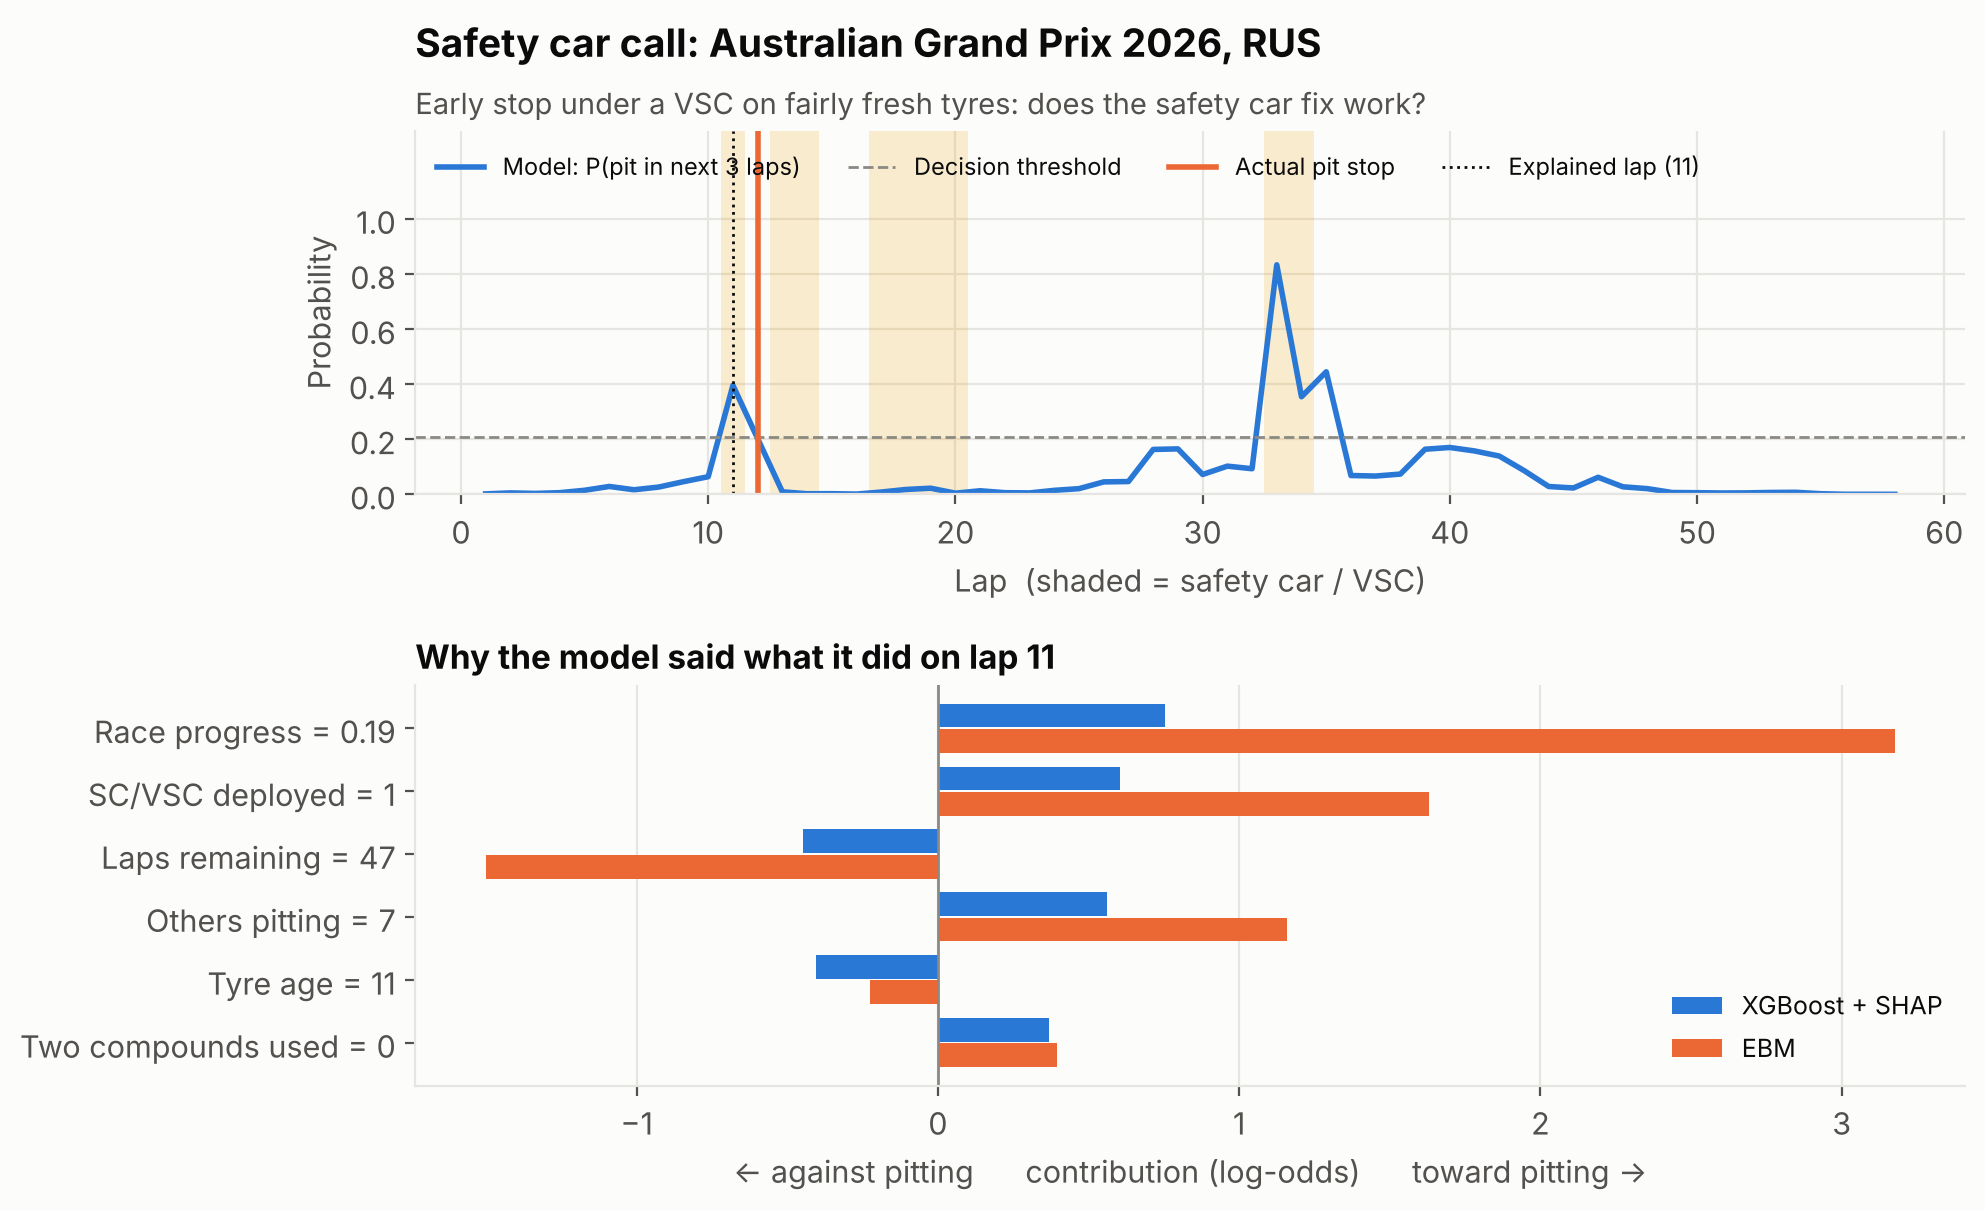
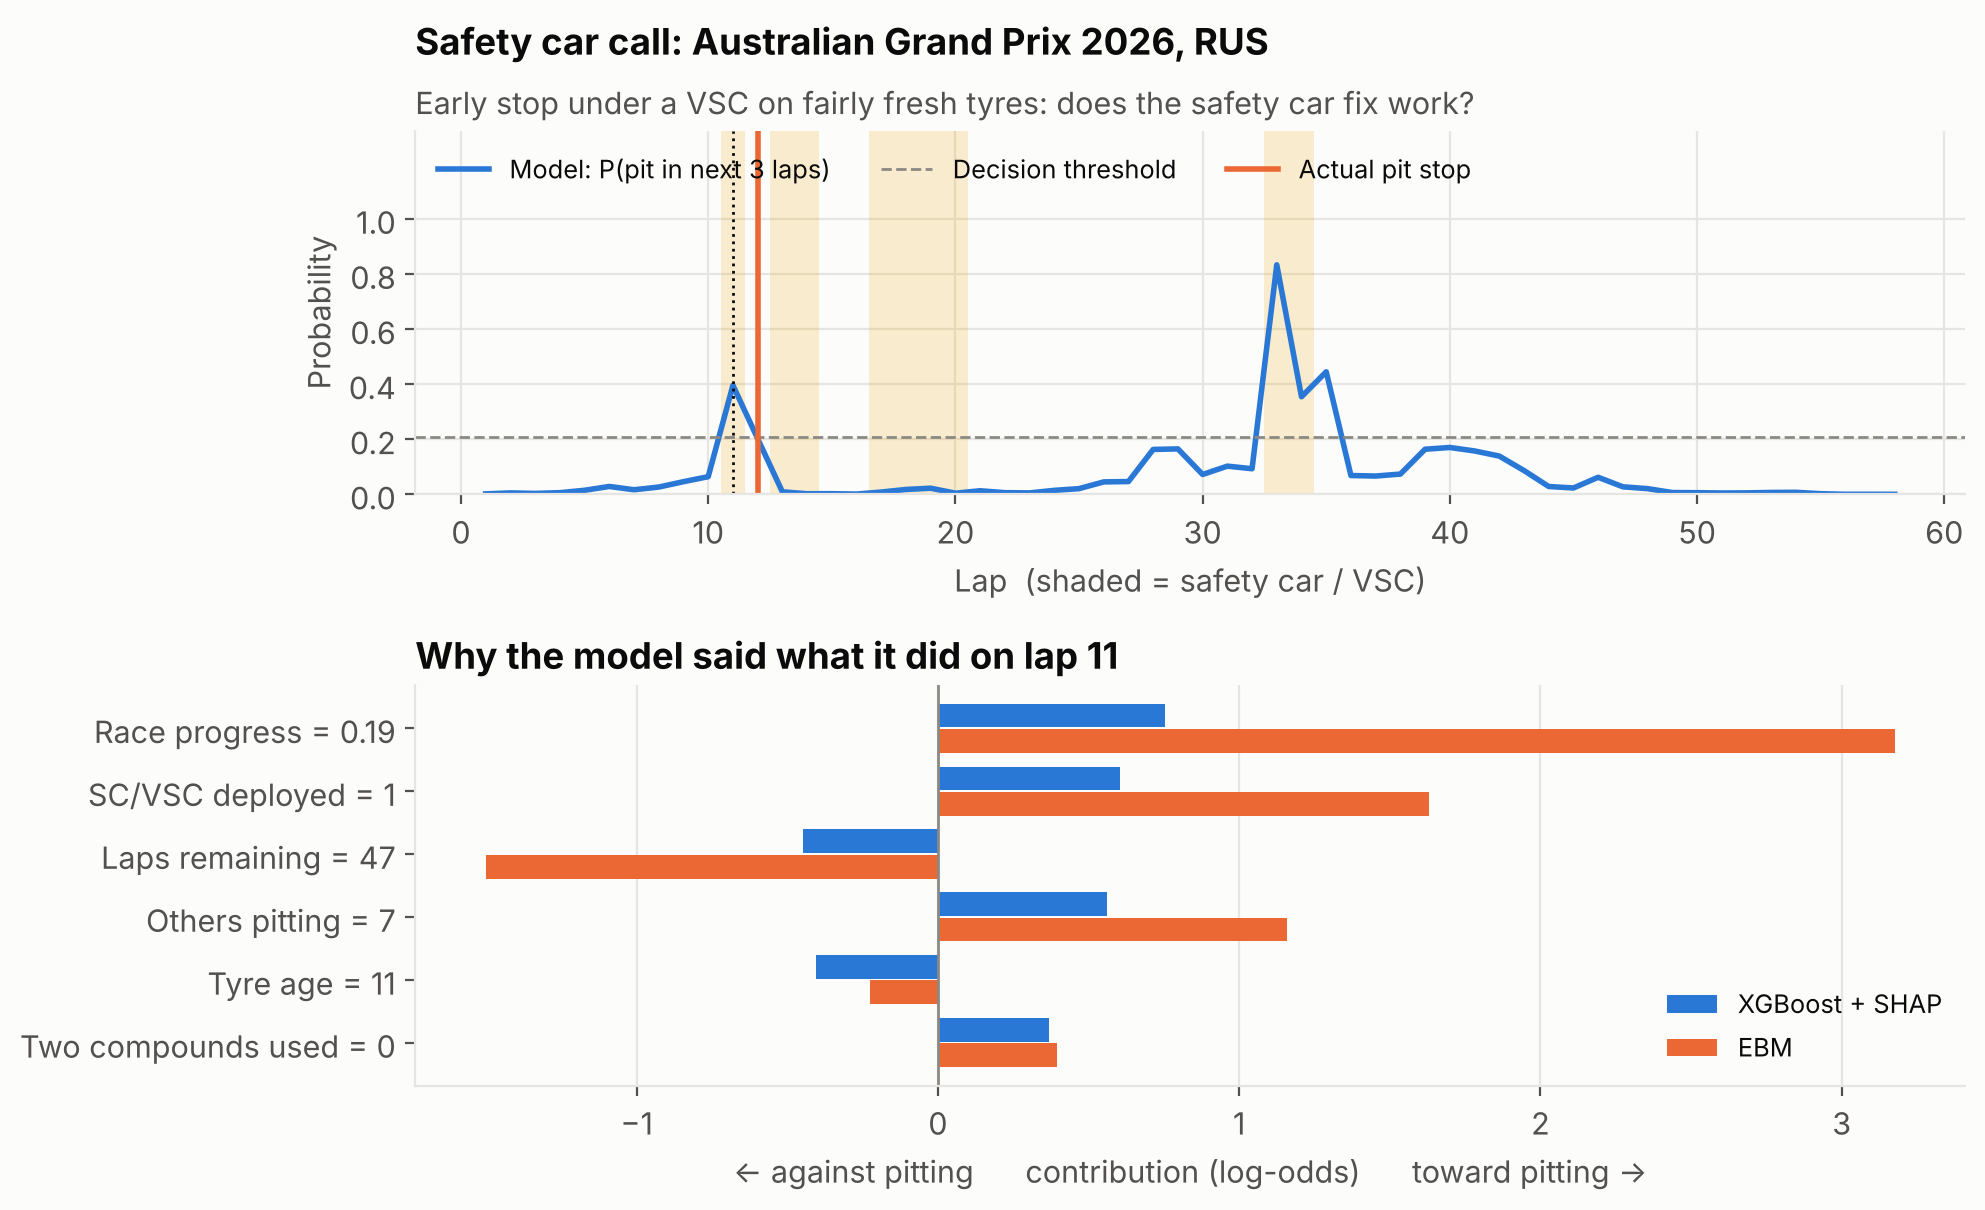
Add poster figure scripts and README fix

diff --git a/src/figures.py b/src/figures.py
@@ -26,10 +26,11 @@ def _save(fig, path):
     plt.close(fig)
 
 
-def importance_comparison(imp_a, imp_b, label_a, label_b, title, path, color_b=ORANGE, top_n=12):
+def importance_comparison(imp_a, imp_b, label_a, label_b, title, path, color_b=ORANGE, top_n=12,
+                          width=7.5, row_h=0.3):
     order = pd.Series(imp_a).sort_values().index[-top_n:]
     y = np.arange(len(order))
-    fig, ax = plt.subplots(figsize=(7.5, 0.3 * len(order) + 1.3))
+    fig, ax = plt.subplots(figsize=(width, row_h * len(order) + 1.3))
     for i, f in enumerate(order):
         ax.plot([imp_a[f], imp_b[f]], [i, i], color=GRID, lw=2, zorder=1)
     ax.scatter([imp_a[f] for f in order], y, s=60, color=BLUE, label=label_a, zorder=2, edgecolor=SURFACE, lw=1.5)
@@ -54,12 +55,12 @@ def shape_comparison(curves, path, title="How each feature pushes the pit predic
         ax.axhline(0, color=GRAY, lw=1)
         ax.plot(s["x"], s["c"], color=BLUE, marker="o", ms=4, label="XGBoost + SHAP")
         ax.plot(e["x"], e["c"], color=ORANGE, marker="o", ms=4, label="EBM (glass box)")
-        ax.set_title(SHORT_NAMES[f], fontsize=12)
+        ax.set_title(SHORT_NAMES[f], fontsize="large")
         ax.set_ylabel("Contribution (log-odds)")
     for ax in list(axes.flat)[n:]:
         ax.set_visible(False)
     axes.flat[0].legend(loc="upper left")
-    fig.suptitle(title, x=0.01, ha="left", fontweight="bold", fontsize=13)
+    fig.suptitle(title, x=0.01, ha="left", fontweight="bold", fontsize="large")
     _save(fig, path)
 
 
@@ -95,7 +96,7 @@ def performance_bars(metrics, seasons, path, metric="pr_auc", title="Pit predict
     for i, (key, label, color) in enumerate(names):
         vals = [metrics[key][s][metric] for s in seasons]
         bars = ax.bar(x + (i - 1) * w, vals, width=w - 0.02, color=color, label=label)
-        ax.bar_label(bars, fmt="%.2f", padding=2, color=INK2, fontsize=9)
+        ax.bar_label(bars, fmt="%.2f", padding=2, color=INK2, fontsize="small")
     rates = [metrics["xgboost"][s]["pit_rate"] for s in seasons]
     for xi, r in zip(x, rates):
         ax.hlines(r, xi - 1.5 * w, xi + 1.5 * w, color=INK2, lw=1, ls=":")
@@ -126,7 +127,7 @@ def race_timeline(df, probs, stops, threshold, path, title, highlight_lap=None):
     ax.set_ylabel("Probability")
     ax.set_ylim(0, 1)
     ax.set_title(title)
-    ax.legend(loc="upper left", fontsize=9)
+    ax.legend(loc="upper left", fontsize="small")
     if path is None:
         fig.tight_layout()
         return fig
@@ -145,22 +146,22 @@ def lap_explanation(names, shap_vals, ebm_vals, title="Why? Contribution of each
     ax.grid(axis="y", visible=False)
     ax.set_xlabel("← against pitting      contribution (log-odds)      toward pitting →")
     ax.set_title(title)
-    ax.legend(loc="lower right", fontsize=9)
+    ax.legend(loc="lower right", fontsize="small")
     fig.tight_layout()
     return fig
 
 
-def iterations_plot(result, path, title="Explanations led to a better model"):
+def iterations_plot(result, path, title="Explanations led to a better model", labels=None, figsize=(8.5, 3.6)):
     names = list(result)
     means = [result[n]["pr_auc_mean"] for n in names]
     sds = [result[n]["pr_auc_sd"] for n in names]
     colors = [BLUE if n.startswith("v3") else (GRAY if "control" in n else "#9dbfea") for n in names]
-    fig, ax = plt.subplots(figsize=(8.5, 3.6))
+    fig, ax = plt.subplots(figsize=figsize)
     y = np.arange(len(names))
     ax.barh(y, means, xerr=sds, height=0.6, color=colors, error_kw=dict(ecolor=INK2, capsize=3, lw=1))
     for yi, m, sd in zip(y, means, sds):
-        ax.text(m + sd + 0.006, yi, f"{m:.3f}", va="center", color=INK2, fontsize=10)
-    ax.set_yticks(y, names)
+        ax.text(m + sd + 0.006, yi, f"{m:.3f}", va="center", color=INK2, fontsize="small")
+    ax.set_yticks(y, [labels.get(n, n) for n in names] if labels else names)
     ax.invert_yaxis()
     ax.grid(axis="y", visible=False)
     ax.set_xlim(0, max(means) * 1.18)
@@ -169,10 +170,11 @@ def iterations_plot(result, path, title="Explanations led to a better model"):
     _save(fig, path)
 
 
-def case_study_panel(d, probs, stops, threshold, focus_lap, names, shap_vals, ebm_vals, title, subtitle, path):
+def case_study_panel(d, probs, stops, threshold, focus_lap, names, shap_vals, ebm_vals, title, subtitle, path,
+                     figsize=(10, 6.2), hspace=0.5, legend=True):
     """Two-row figure: race timeline (top) and the explanation at the focus lap (bottom)."""
-    fig = plt.figure(figsize=(10, 6.2))
-    gs = fig.add_gridspec(2, 1, height_ratios=[1, 1.1], hspace=0.5)
+    fig = plt.figure(figsize=figsize)
+    gs = fig.add_gridspec(2, 1, height_ratios=[1, 1.1], hspace=hspace)
     ax = fig.add_subplot(gs[0])
     laps = d["LapNumber"].values
     for lap, c in zip(laps, (d["safety_car"] | d["vsc"] | d["sc_upcoming"])):
@@ -182,14 +184,18 @@ def case_study_panel(d, probs, stops, threshold, focus_lap, names, shap_vals, eb
     ax.axhline(threshold, color=GRAY, lw=1, ls="--", label="Decision threshold")
     for i, s in enumerate(stops):
         ax.axvline(s, color=ORANGE, lw=2, label="Actual pit stop" if i == 0 else None)
-    ax.axvline(focus_lap, color=INK, lw=1, ls=":", label=f"Explained lap ({focus_lap})")
+    ax.axvline(focus_lap, color=INK, lw=1, ls=":")  # the lap explained below
     ax.set_ylim(0, 1.32)  # headroom so the legend sits above the curve
     ax.set_yticks([0, 0.2, 0.4, 0.6, 0.8, 1.0])
     ax.set_xlabel("Lap  (shaded = safety car / VSC)")
     ax.set_ylabel("Probability")
-    fig.suptitle(title, x=0.125, y=0.97, ha="left", fontweight="bold", fontsize=14)
-    ax.set_title(subtitle, fontsize=10.5, fontweight="normal", color=INK2)
-    ax.legend(loc="upper left", fontsize=8.5, ncol=4)
+    if subtitle:
+        fig.suptitle(title, x=0.125, y=0.97, ha="left", fontweight="bold", fontsize="large")
+        ax.set_title(subtitle, fontsize="medium", fontweight="normal", color=INK2)
+    else:
+        ax.set_title(title)
+    if legend:
+        ax.legend(loc="upper left", fontsize="small", ncol=3)
 
     bx = fig.add_subplot(gs[1])
     y = np.arange(len(names))
@@ -200,7 +206,45 @@ def case_study_panel(d, probs, stops, threshold, focus_lap, names, shap_vals, eb
     bx.invert_yaxis()
     bx.grid(axis="y", visible=False)
     bx.set_xlabel("← against pitting      contribution (log-odds)      toward pitting →")
-    bx.set_title(f"Why the model said what it did on lap {focus_lap}", fontsize=12)
-    bx.legend(loc="lower right", fontsize=9)
+    if legend:
+        bx.set_title(f"Why the model said what it did on lap {focus_lap}", fontsize="large")
+        bx.legend(loc="lower right", fontsize="small")
+    else:  # narrow: short title, legend in the title row
+        bx.set_title(f"Why, on lap {focus_lap}", fontsize="large", loc="left")
+        bx.legend(loc="lower right", bbox_to_anchor=(1.0, 1.0), ncol=2, fontsize="small",
+                  handlelength=1.2, columnspacing=1.0, borderaxespad=0.2)
+    fig.savefig(path, dpi=200, bbox_inches="tight")
+    plt.close(fig)
+
+
+def case_study_compact(d, probs, stops, threshold, focus_lap, names, shap_vals, title, path, figsize=(12, 4)):
+    """Side-by-side version for tight layouts: timeline left, SHAP reasons right."""
+    fig = plt.figure(figsize=figsize)
+    gs = fig.add_gridspec(1, 2, width_ratios=[1.45, 1], wspace=0.75)
+    ax = fig.add_subplot(gs[0])
+    laps = d["LapNumber"].values
+    for lap, c in zip(laps, (d["safety_car"] | d["vsc"] | d["sc_upcoming"])):
+        if c:
+            ax.axvspan(lap - 0.5, lap + 0.5, color="#eda100", alpha=0.18, lw=0)
+    ax.plot(laps, probs, color=BLUE, label="P(pit in next 3 laps)")
+    ax.axhline(threshold, color=GRAY, lw=1, ls="--")
+    for i, s in enumerate(stops):
+        ax.axvline(s, color=ORANGE, lw=2, label="Actual stop" if i == 0 else None)
+    ax.axvline(focus_lap, color=INK, lw=1, ls=":")
+    ax.set_ylim(0, 1.3)
+    ax.set_yticks([0, 0.5, 1.0])
+    ax.set_xlabel("Lap")
+    ax.set_title(title)
+    ax.legend(loc="upper left", ncol=2, fontsize="small")
+
+    bx = fig.add_subplot(gs[1])
+    y = np.arange(len(names))
+    bx.axvline(0, color=GRAY, lw=1)
+    bx.barh(y, shap_vals, height=0.6, color=[BLUE if v > 0 else GRAY for v in shap_vals])
+    bx.set_yticks(y, names)
+    bx.invert_yaxis()
+    bx.grid(axis="y", visible=False)
+    bx.set_xlabel("SHAP (→ toward pitting)")
+    bx.set_title(f"Why, on lap {focus_lap}")
     fig.savefig(path, dpi=200, bbox_inches="tight")
     plt.close(fig)

diff --git a/case_studies.py b/case_studies.py
@@ -5,8 +5,11 @@
 Writes figures/case_*.png and results/case_studies.md. Races not in the data are skipped.
 """
 import json
+import os
+import sys
 
 import joblib
+import matplotlib.pyplot as plt
 import numpy as np
 import pandas as pd
 
@@ -23,8 +26,15 @@ CASES = [
     dict(key="singapore", year=2026, event="Singapore Grand Prix", driver="VER", stop=None,
          role="Blind-spot gamble", subtitle="Pace management and track position: what the model can't see"),
     dict(key="stayed_out", year=2025, event="Italian Grand Prix", driver="NOR", focus=33,
-         role="Stayed out (fallback gamble)", subtitle="The model expected a stop; the team extended the stint"),
+         role="The gamble", subtitle="The model expected a stop; the team extended the stint"),
 ]
+# --poster: larger text and fewer bars, written to figures/poster/ (results/ untouched)
+POSTER = "--poster" in sys.argv
+POSTER_RC = {"font.size": 16, "axes.titlesize": 19, "axes.labelsize": 16, "xtick.labelsize": 15,
+             "ytick.labelsize": 15, "legend.fontsize": 15}
+FIG_DIR = "figures/poster" if POSTER else "figures"
+os.makedirs(FIG_DIR, exist_ok=True)
+
 COMP = {1: "Soft", 2: "Medium", 3: "Hard", 4: "Inter", 5: "Wet"}
 
 feat = pd.read_csv("data/features.csv")
@@ -54,11 +64,25 @@ for c in CASES:
     i = int(np.where(d["LapNumber"] == focus)[0][0])
     row = d.iloc[[i]]
     sv, ev = ex.shap_values(xgbm, row)[0], ex.ebm_contribs(ebm, row)[0]
-    order = np.argsort(-np.maximum(np.abs(sv), np.abs(ev)))[:6]
+    order = np.argsort(-np.maximum(np.abs(sv), np.abs(ev)))[:4 if POSTER else 6]
     names = [f"{SHORT_NAMES[FEATURE_COLS[j]]} = {row[FEATURE_COLS[j]].iloc[0]:.3g}" for j in order]
     title = f"{c['role']}: {c['event']} {c['year']}, {c['driver']}"
-    fg.case_study_panel(d, p, s_laps, thr["xgboost"], focus, names, sv[order], ev[order],
-                        title, c["subtitle"], f"figures/case_{c['key']}.png")
+    if POSTER:
+        o3 = np.argsort(-np.abs(sv))[:3]
+        n3 = [f"{SHORT_NAMES[FEATURE_COLS[j]]} = {row[FEATURE_COLS[j]].iloc[0]:.3g}" for j in o3]
+        with plt.rc_context(POSTER_RC):
+            fg.case_study_compact(d, p, s_laps, thr["xgboost"], focus, n3, sv[o3],
+                                  f"{c['event'].replace(' Grand Prix', ' GP')} {c['year']}, {c['driver']}",
+                                  f"{FIG_DIR}/case_{c['key']}_compact.png")
+    if POSTER:  # narrow version: three across in a band under the results
+        with plt.rc_context(POSTER_RC):
+            fg.case_study_panel(d, p, s_laps, thr["xgboost"], focus, names[:3], sv[order][:3], ev[order][:3],
+                                f"{c['event'].replace(' Grand Prix', ' GP')} {c['year']} · {c['driver']}", "",
+                                f"{FIG_DIR}/case_{c['key']}_narrow.png", figsize=(7.6, 5.6), hspace=0.8, legend=False)
+    with plt.rc_context(POSTER_RC if POSTER else {}):
+        fg.case_study_panel(d, p, s_laps, thr["xgboost"], focus, names, sv[order], ev[order],
+                            title, "" if POSTER else c["subtitle"], f"{FIG_DIR}/case_{c['key']}.png",
+                            figsize=(12, 5.7) if POSTER else (10, 6.2), hspace=0.75 if POSTER else 0.5)
     top_s = [SHORT_NAMES[FEATURE_COLS[j]] for j in np.argsort(-np.abs(sv))[:3]]
     top_e = [SHORT_NAMES[FEATURE_COLS[j]] for j in np.argsort(-np.abs(ev))[:3]]
     r = row.iloc[0]
@@ -72,4 +96,5 @@ for c in CASES:
             f"- EBM top 3: {', '.join(top_e)}",
             f"- Same top-3 set: {'yes' if set(top_s) == set(top_e) else 'no'}", ""]
     print(f"done: {title}")
-open("results/case_studies.md", "w").write("\n".join(out) + "\n")
+if not POSTER:
+    open("results/case_studies.md", "w").write("\n".join(out) + "\n")

diff --git a/poster_figures.py b/poster_figures.py
@@ -1,0 +1,30 @@
+"""Poster versions of the main figures: bigger text, fewer elements.
+
+    python poster_figures.py       (after run_pipeline.py)
+    python case_studies.py --poster
+
+Writes figures/poster/.
+"""
+import json
+import os
+
+import matplotlib.pyplot as plt
+
+from src import figures as fg
+
+POSTER_RC = {"font.size": 16, "axes.titlesize": 20, "axes.labelsize": 16, "xtick.labelsize": 15,
+             "ytick.labelsize": 16, "legend.fontsize": 15}
+os.makedirs("figures/poster", exist_ok=True)
+R = json.load(open("results/metrics.json"))
+
+with plt.rc_context(POSTER_RC):
+    fg.importance_comparison(R["agreement"]["importance_shap"], R["agreement"]["importance_ebm"],
+                             "XGBoost + SHAP", "EBM (glass box)", "What matters most, per method",
+                             "figures/poster/importance.png", top_n=6, width=9.5, row_h=0.38)
+    fg.iterations_plot(R["iterations"], "figures/poster/iterations.png",
+                       title="Each fix, tested on the unseen 2025 season", figsize=(9.5, 3.5),
+                       labels={"v1 original (absolute temp, no SC-upcoming)": "v1 original",
+                               "v2 + SC/VSC deployed feature": "v2 + safety-car feature",
+                               "No temperature (control)": "No temperature (control)",
+                               "v3 final (temp change instead of absolute)": "v3 final (temp change)"})
+print("wrote figures/poster/")

diff --git a/README.md b/README.md
@@ -134,7 +134,7 @@ plentiful) and rain.
 
 Both explanations are in the same unit (log-odds of pitting), so they can be compared directly.
 
-**Metrics.** Pit laps are rare (about 7–8% of rows), so accuracy is misleading. The main metric is
+**Metrics.** Pit laps are rare (about 8–10% of rows, depending on the season), so accuracy is misleading. The main metric is
 **PR-AUC**, where random guessing scores the pit rate. Precision and recall are reported at an
 F1-optimal threshold chosen on 2024 data.
 

diff --git a/results/case_studies.md b/results/case_studies.md
@@ -21,7 +21,7 @@ Numbers behind figures/case_*.png. Probabilities are P(pit within 3 laps); XGBoo
 ## Blind-spot gamble: 2026 Singapore Grand Prix (VER)
 _Not in the data yet._
 
-## Stayed out (fallback gamble): 2025 Italian Grand Prix (NOR)
+## The gamble: 2025 Italian Grand Prix (NOR)
 - Actual stops: laps [46]
 - Explained lap 33: Medium tyres, 33 laps old; pace drop-off 0.23s; position 2; SC/VSC on upcoming lap: no
 - XGBoost P(pit) = 85%; EBM P(pit) = 66%
